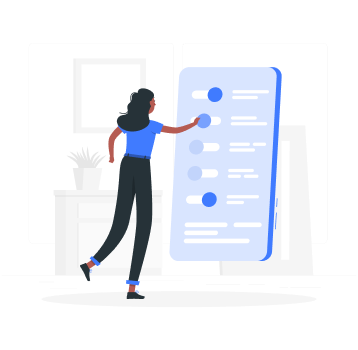
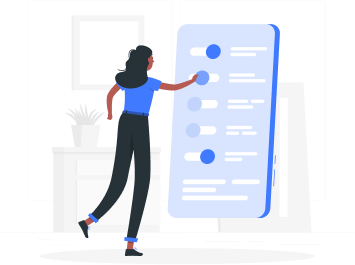
feat: add onboarding screen with language/theme toggle and localization

diff --git a/lib/features/ui/intro/pages/intro_screen_1.dart b/lib/features/ui/intro/pages/intro_screen_1.dart
@@ -1,10 +1,85 @@
+import 'package:easy_localization/easy_localization.dart';
 import 'package:flutter/material.dart';
+import 'package:provider/provider.dart';
+import 'package:safe_rag/core/constants/app_routes.dart';
+import 'package:safe_rag/core/constants/app_styles.dart';
+import 'package:safe_rag/core/state/local_provider.dart';
+import 'package:safe_rag/core/state/theme_provider.dart';
+import 'package:safe_rag/features/ui/intro/widgets/icon_toggle.dart';
+import 'package:safe_rag/features/ui/intro/widgets/setting_row.dart';
 
 class IntroScreen1 extends StatelessWidget {
-  const new({super.key});
+  const IntroScreen1({super.key});
 
   @override
   Widget build(BuildContext context) {
-    return const Placeholder();
+    var themeProvider = Provider.of<ThemeProvider>(context);
+    var localProvider = Provider.of<LocalProvider>(context);
+    return Scaffold(
+      body: SafeArea(
+        child: Padding(
+          padding: const EdgeInsets.symmetric(horizontal: 24),
+          child: Padding(
+            padding: const EdgeInsets.only(top: 96.0, left: 16.0, right: 16.0),
+            child: Column(
+              children: [
+                Image.asset('assets/images/intro_illustration_1.png'),
+                const SizedBox(height: 32),
+                Text(
+                  'onboarding.title1'.tr(),
+                  textAlign: TextAlign.center,
+                  style: AppStyles.whiteBold24,
+                ),
+                SizedBox(height: 12),
+                Text(
+                  'onboarding.desc1'.tr(),
+                  textAlign: TextAlign.center,
+                  style: AppStyles.lightGreyReg16,
+                ),
+
+                SizedBox(height: 28),
+                SettingRow(
+                  label: 'onboarding.language'.tr(),
+                  child: IconToggle(
+                    isLeftSelected: context.locale.languageCode == 'en',
+                    leftIcon: 'assets/icons/usa_icon.png',
+                    rightIcon: 'assets/icons/eg_icon.png',
+                    //iconSize: Size(25, 23),
+                    onLeft: () => localProvider.changeLanguage(context, 'en'),
+                    onRight: () => localProvider.changeLanguage(context, 'ar'),
+                  ),
+                ),
+                SizedBox(height: 16),
+                SettingRow(
+                  label: 'onboarding.theme'.tr(),
+                  child: IconToggle(
+                    isLeftSelected: !themeProvider.isDarkMode(),
+                    leftIcon: 'assets/icons/light_icon.png',
+                    rightIcon: 'assets/icons/dark_icon.png',
+                    onLeft: () => themeProvider.changeTheme(ThemeMode.light),
+                    onRight: () => themeProvider.changeTheme(ThemeMode.dark),
+                  ),
+                ),
+                SizedBox(height: 28),
+                SizedBox(
+                  width: double.infinity,
+                  height: 52,
+                  child: FilledButton(
+                    onPressed: () =>
+                        Navigator.pushNamed(context, AppRoutes.introScreen2),
+                    style: FilledButton.styleFrom(shape: const StadiumBorder()),
+                    child: Text(
+                      'onboarding.continue'.tr(),
+                      style: AppStyles.whiteBold16,
+                    ),
+                  ),
+                ),
+                SizedBox(height: 20),
+              ],
+            ),
+          ),
+        ),
+      ),
+    );
   }
 }

diff --git a/lib/features/ui/intro/widgets/icon_toggle.dart b/lib/features/ui/intro/widgets/icon_toggle.dart
@@ -1,0 +1,83 @@
+import 'package:flutter/material.dart';
+import 'package:provider/provider.dart';
+import 'package:safe_rag/core/constants/app_colors.dart';
+import 'package:safe_rag/core/state/theme_provider.dart';
+
+class IconToggle extends StatelessWidget {
+  const IconToggle({
+    super.key,
+    required this.isLeftSelected,
+    required this.leftIcon,
+    required this.rightIcon,
+    required this.onLeft,
+    required this.onRight,
+  });
+
+  final bool isLeftSelected;
+  final String leftIcon;
+  final String rightIcon;
+  final VoidCallback onLeft;
+  final VoidCallback onRight;
+
+  @override
+  Widget build(BuildContext context) {
+    var theme = Provider.of<ThemeProvider>(context);
+    return Container(
+      padding: const EdgeInsets.all(4),
+      decoration: BoxDecoration(
+        color: theme.isDarkMode()
+            ? AppColors.secondryColor
+            : AppColors.labelColor,
+        borderRadius: BorderRadius.circular(24),
+      ),
+      child: Row(
+        mainAxisSize: MainAxisSize.min,
+        children: [
+          _Thumb(
+            selected: isLeftSelected,
+            icon: leftIcon,
+            //size: iconSize,
+            onTap: onLeft,
+          ),
+          _Thumb(
+            selected: !isLeftSelected,
+            icon: rightIcon,
+            //size: iconSize,
+            onTap: onRight,
+          ),
+        ],
+      ),
+    );
+  }
+}
+
+class _Thumb extends StatelessWidget {
+  const _Thumb({
+    required this.selected,
+    required this.icon,
+    //required this.size,
+    required this.onTap,
+  });
+
+  final bool selected;
+  final String icon;
+  //final Size size;
+  final VoidCallback onTap;
+
+  @override
+  Widget build(BuildContext context) {
+    return GestureDetector(
+      onTap: onTap,
+      child: Container(
+        width: 30,
+        height: 30,
+        alignment: Alignment.center,
+        decoration: BoxDecoration(
+          shape: BoxShape.circle,
+          color: selected ? AppColors.blueColor : null,
+        ),
+        child: Image.asset(icon),
+      ),
+    );
+  }
+}

diff --git a/lib/features/ui/intro/widgets/setting_row.dart b/lib/features/ui/intro/widgets/setting_row.dart
@@ -1,0 +1,20 @@
+import 'package:flutter/material.dart';
+import 'package:safe_rag/core/constants/app_styles.dart';
+
+class SettingRow extends StatelessWidget {
+  const SettingRow({super.key, required this.label, required this.child});
+
+  final String label;
+  final Widget child;
+
+  @override
+  Widget build(BuildContext context) {
+    return Row(
+      children: [
+        Text(label, style: AppStyles.lightGreyReg16),
+        const Spacer(),
+        child,
+      ],
+    );
+  }
+}
